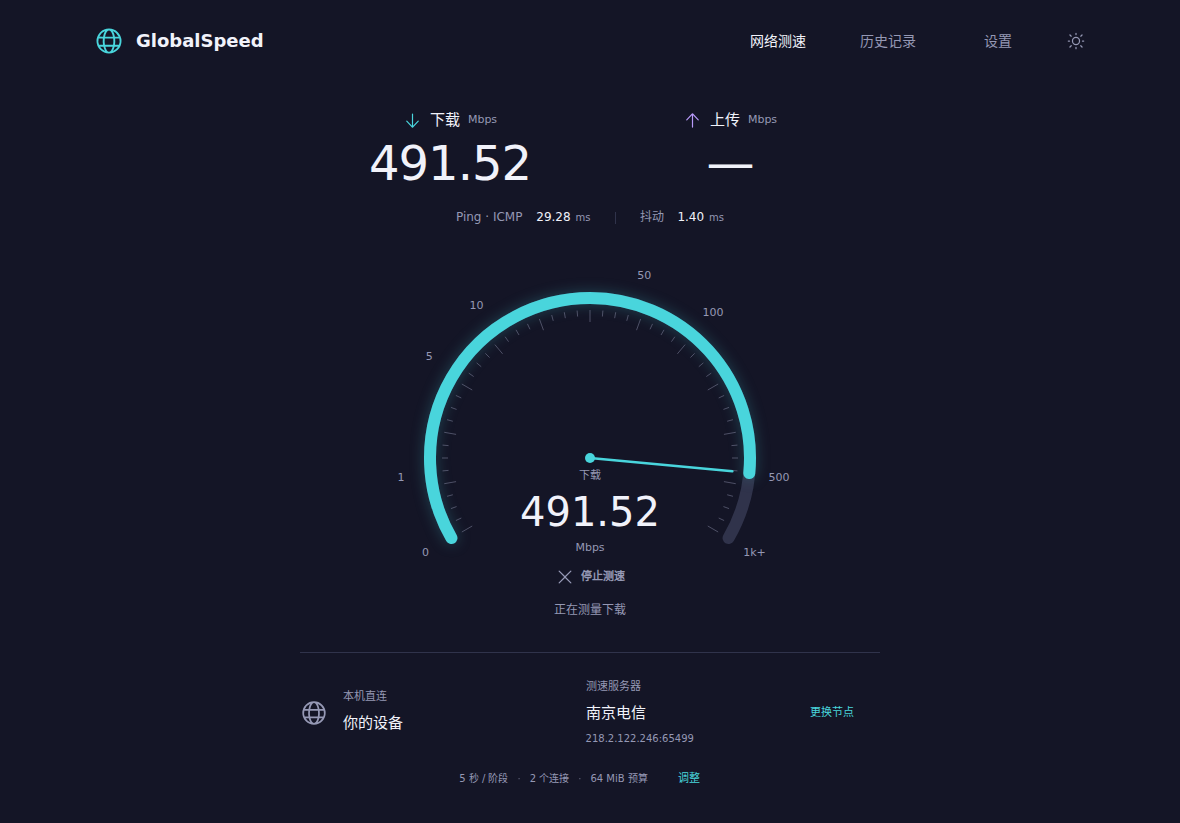
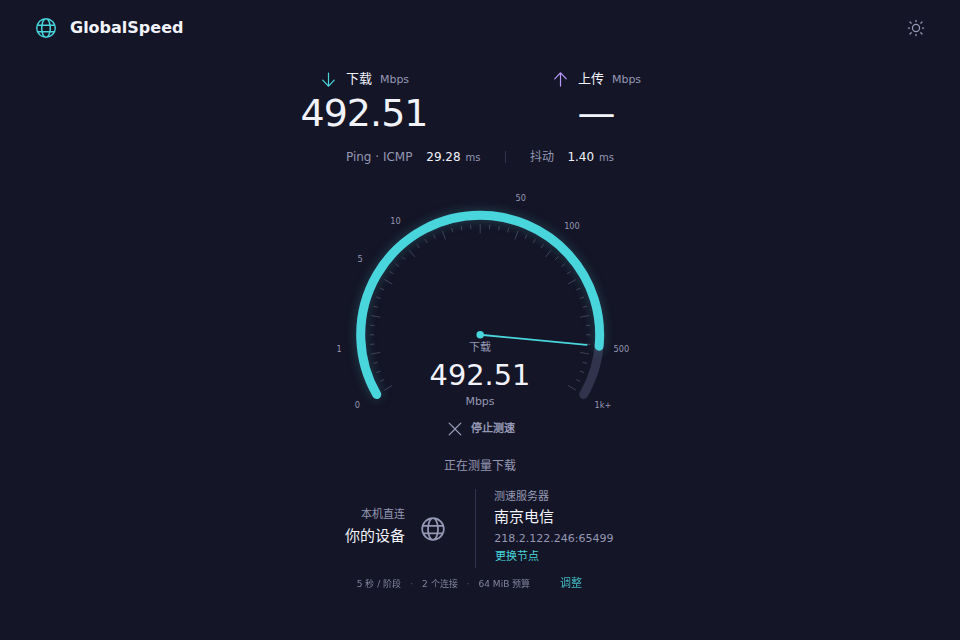
Compact desktop layout and refine Speedtest-style idle screen

diff --git a/frontend/src/style.css b/frontend/src/style.css
@@ -1,5 +1,52 @@
-*{box-sizing:border-box}body{margin:0;font-family:"Segoe UI Variable","Segoe UI",system-ui,"PingFang SC",sans-serif}button,input,select{font:inherit}.app{--gs-bg:#f8f9fc;--gs-fg:#17213d;--gs-muted:#68738c;--gs-line:#dce2ed;--gs-accent:#007d95;--gs-upload:#875bc9;min-height:100vh;background:var(--gs-bg);color:var(--gs-fg)}[data-theme=dark] .app{--gs-bg:#141526;--gs-fg:#f1f2fa;--gs-muted:#9598b4;--gs-line:#30334b;--gs-accent:#49d5dc;--gs-upload:#b89afa}main{width:100%;min-height:100vh}header{height:82px;max-width:1080px;margin:auto;display:flex;align-items:center;justify-content:space-between;padding:0 38px}header nav{display:flex;gap:14px;align-items:center}header nav button{color:var(--gs-muted)!important;font-weight:400!important}header nav .nav-selected{color:var(--gs-fg)!important}.brand{background:none;border:0;color:var(--gs-fg);display:flex;align-items:center;gap:12px;text-align:left;cursor:pointer;font-size:18px;font-weight:650}.brand>svg{width:30px;height:30px;color:var(--gs-accent)}.brand small{display:block;font-size:8px;letter-spacing:2.4px;color:var(--gs-muted);margin-top:2px}.content{max-width:1000px;padding:24px 38px 32px;margin:auto}.speed-content{max-width:800px;padding-top:28px}.headline-metrics{display:flex;justify-content:center;gap:100px;text-align:center}.headline-metric{min-width:180px}.headline-metric>span{display:flex;align-items:center;justify-content:center;gap:8px;font-size:15px}.headline-metric svg{width:19px;height:19px;color:var(--gs-accent)}.headline-metric.upload svg{color:var(--gs-upload)}.headline-metric small{font-size:11px;color:var(--gs-muted)}.headline-metric strong{display:block;font-size:48px;line-height:1.4;font-weight:400;font-variant-numeric:tabular-nums;letter-spacing:-1px}.latency-row{display:flex;justify-content:center;align-items:center;gap:24px;color:var(--gs-muted);font-size:12px;margin-top:10px}.latency-row b{color:var(--gs-fg);font-weight:500;margin-left:10px}.latency-row small{margin-left:5px;font-size:10px}.latency-row i{height:12px;width:1px;background:var(--gs-line)}.test-stage{width:480px;max-width:100%;height:340px;position:relative;margin:20px auto 2px;display:grid;place-items:center}.speedometer{width:100%;height:auto;position:absolute;inset:0;pointer-events:none;--gs-dial-color:var(--gs-accent)}.upload-dial{--gs-dial-color:var(--gs-upload)}.gauge-track{fill:none;stroke:var(--gs-line);stroke-width:12;stroke-linecap:round}.gauge-fill{fill:none;stroke:var(--gs-dial-color);stroke-width:12;stroke-linecap:round;filter:drop-shadow(0 0 7px color-mix(in srgb,var(--gs-dial-color) 25%,transparent));transition:stroke .25s}.gauge-tick{stroke:var(--gs-muted);stroke-width:1;opacity:.45}.gauge-label{fill:var(--gs-muted);font-size:11px;text-anchor:middle;dominant-baseline:middle}.gauge-needle line{stroke:var(--gs-dial-color);stroke-width:2.5;stroke-linecap:round}.gauge-needle circle{fill:var(--gs-dial-color)}.go-button{position:relative;width:150px;height:150px;margin-top:30px;border:1px solid var(--gs-line);border-radius:50%;background:var(--gs-bg);color:var(--gs-fg);display:flex;flex-direction:column;align-items:center;justify-content:center;cursor:pointer;transition:background .2s,border-color .2s}.go-button:hover{background:color-mix(in srgb,var(--gs-accent) 6%,var(--gs-bg));border-color:var(--gs-accent)}.go-button:focus-visible{outline:2px solid var(--gs-accent);outline-offset:5px}.go-button:disabled{cursor:default;opacity:.4}.go-button span{font-size:28px;font-weight:400;letter-spacing:3px}.go-button small{font-size:10px;letter-spacing:3px;color:var(--gs-muted);margin-top:10px}.dial-reading{position:absolute;top:218px;left:50%;transform:translateX(-50%);min-width:200px;display:flex;align-items:center;flex-direction:column;gap:2px}.dial-reading>span{font-size:11px;color:var(--gs-muted)}.dial-reading strong{font-size:40px;line-height:1.2;font-weight:400;font-variant-numeric:tabular-nums}.dial-reading>small{font-size:11px;color:var(--gs-muted)}.dial-reading button{color:var(--gs-muted)!important;font-size:11px;margin-top:4px;min-height:24px!important;padding:2px 8px!important}.status{margin-top:12px;text-align:center;min-height:22px;font-size:12px;color:var(--gs-muted)}.connection-info{display:grid;grid-template-columns:1fr 1.25fr;gap:50px;max-width:580px;margin:30px auto 0;padding-top:24px;border-top:1px solid var(--gs-line)}.device-info{display:flex;align-items:center;gap:15px}.device-info>svg{color:var(--gs-muted);width:28px;height:28px}.connection-info span,.connection-info small{display:block;font-size:11px;color:var(--gs-muted)}.connection-info strong{display:block;font-size:15px;font-weight:500;margin:6px 0}.connection-info small{font-size:10px}.server-info{display:flex;align-items:center;justify-content:space-between;gap:8px}.server-info button,.test-caption button{color:var(--gs-accent)!important;font-size:11px!important;font-weight:400!important}.test-caption{display:flex;align-items:center;justify-content:center;gap:9px;color:var(--gs-muted);font-size:10px;margin-top:18px}.test-caption span{opacity:.6}.secondary-content{padding-top:35px}.page-heading{margin-bottom:28px}h1{font-size:25px;font-weight:500;margin:0 0 10px}.page-heading p{font-size:12px;color:var(--gs-muted);margin:0}h2{font-size:15px;font-weight:500;margin:0}.filters{display:flex;gap:16px;margin-bottom:10px}.filters>*{flex:1}.secondary-content>div[class*="fui-Card"]{padding:24px;background:transparent;border:1px solid var(--gs-line);box-shadow:none}.settings-card{max-width:600px;margin:auto;gap:22px!important}.muted{font-size:12px;line-height:1.8;color:var(--gs-muted)}.pagination{display:flex;align-items:center;gap:8px;margin-top:14px;font-size:12px}.pagination span{margin-right:auto;color:var(--gs-muted)}.mono{font-family:ui-monospace,monospace;font-size:12px}.empty{text-align:center;padding:65px 20px;color:var(--gs-muted)}.empty svg{width:36px;height:36px;margin-bottom:20px}.empty p{font-size:12px}.error{border:1px solid #a85065;background:color-mix(in srgb,#a85065 10%,var(--gs-bg));border-radius:8px;padding:12px 16px;color:var(--gs-fg);font-size:12px;overflow-wrap:anywhere;margin-bottom:20px}@media(max-width:700px){header{padding:0 20px}header nav{gap:0}.brand small{display:none}.content{padding-left:20px;padding-right:20px}.headline-metrics{gap:30px}.headline-metric{min-width:130px}.connection-info{gap:20px}.headline-metric strong{font-size:40px}}
+*{box-sizing:border-box}body{margin:0;font-family:"Segoe UI Variable","Segoe UI",system-ui,"PingFang SC",sans-serif}button,input,select{font:inherit}.app{--gs-bg:#f2f2f2;--gs-fg:#16171a;--gs-muted:#68738c;--gs-line:#dce2ed;--gs-accent:#007d95;--gs-upload:#875bc9;min-height:100vh;background:var(--gs-bg);color:var(--gs-fg)}[data-theme=dark] .app{--gs-bg:#141526;--gs-fg:#f1f2fa;--gs-muted:#9598b4;--gs-line:#30334b;--gs-accent:#49d5dc;--gs-upload:#b89afa}main{width:100%;min-height:100vh}header{height:56px;max-width:1080px;margin:auto;display:flex;align-items:center;justify-content:space-between;padding:0 28px}header nav{display:flex;gap:14px;align-items:center}header nav button{color:var(--gs-muted)!important;font-weight:400!important}header nav .nav-selected{color:var(--gs-fg)!important}.brand{background:none;border:0;color:var(--gs-fg);display:flex;align-items:center;gap:12px;text-align:left;cursor:pointer;font-size:16px;font-weight:650}.brand>svg{width:24px;height:24px;color:var(--gs-accent)}.brand small{display:block;font-size:8px;letter-spacing:2.4px;color:var(--gs-muted);margin-top:2px}.content{max-width:1000px;padding:24px 38px 32px;margin:auto}.speed-content{max-width:740px;padding:14px 28px 12px}.headline-metrics{display:flex;justify-content:center;gap:72px;text-align:center}.headline-metric{min-width:160px}.headline-metric>span{display:flex;align-items:center;justify-content:center;gap:8px;font-size:13px}.headline-metric svg{width:19px;height:19px;color:var(--gs-accent)}.headline-metric.upload svg{color:var(--gs-upload)}.headline-metric small{font-size:11px;color:var(--gs-muted)}.headline-metric strong{display:block;font-size:38px;line-height:1.3;font-weight:400;font-variant-numeric:tabular-nums;letter-spacing:-1px}.latency-row{display:flex;justify-content:center;align-items:center;gap:24px;color:var(--gs-muted);font-size:12px;margin-top:10px}.latency-row b{color:var(--gs-fg);font-weight:500;margin-left:10px}.latency-row small{margin-left:5px;font-size:10px}.latency-row i{height:12px;width:1px;background:var(--gs-line)}.test-stage{--gauge-width:clamp(270px,calc((100dvh - 320px)*1.12),400px);width:var(--gauge-width);max-width:100%;height:auto;aspect-ratio:480/370;position:relative;margin:12px auto 0;display:grid;place-items:center}.speedometer{width:100%;height:auto;position:absolute;inset:0;pointer-events:none;--gs-dial-color:var(--gs-accent)}.upload-dial{--gs-dial-color:var(--gs-upload)}.gauge-track{fill:none;stroke:var(--gs-line);stroke-width:12;stroke-linecap:round}.gauge-fill{fill:none;stroke:var(--gs-dial-color);stroke-width:12;stroke-linecap:round;filter:drop-shadow(0 0 7px color-mix(in srgb,var(--gs-dial-color) 25%,transparent));transition:stroke .25s}.gauge-tick{stroke:var(--gs-muted);stroke-width:1;opacity:.45}.gauge-label{fill:var(--gs-muted);font-size:11px;text-anchor:middle;dominant-baseline:middle}.gauge-needle line{stroke:var(--gs-dial-color);stroke-width:2.5;stroke-linecap:round}.gauge-needle circle{fill:var(--gs-dial-color)}.go-button{position:relative;width:32%;height:auto;aspect-ratio:1;margin-top:2%;border:1px solid var(--gs-line);border-radius:50%;background:var(--gs-bg);color:var(--gs-fg);display:flex;flex-direction:column;align-items:center;justify-content:center;cursor:pointer;transition:background .2s,border-color .2s}.go-button:hover{background:color-mix(in srgb,var(--gs-accent) 6%,var(--gs-bg));border-color:var(--gs-accent)}.go-button:focus-visible{outline:2px solid var(--gs-accent);outline-offset:5px}.go-button:disabled{cursor:default;opacity:.4}.go-button span{font-size:clamp(20px,3.2vh,26px);font-weight:400;letter-spacing:2px}.go-button small{font-size:10px;letter-spacing:3px;color:var(--gs-muted);margin-top:10px}.dial-reading{position:absolute;top:59%;left:50%;transform:translateX(-50%);min-width:160px;display:flex;align-items:center;flex-direction:column;gap:2px}.dial-reading>span{font-size:11px;color:var(--gs-muted)}.dial-reading strong{font-size:clamp(26px,4.5vh,36px);line-height:1.2;font-weight:400;font-variant-numeric:tabular-nums}.dial-reading>small{font-size:11px;color:var(--gs-muted)}.dial-reading button{color:var(--gs-muted)!important;font-size:11px;margin-top:4px;min-height:24px!important;padding:2px 8px!important}.status{margin-top:2px;text-align:center;min-height:22px;font-size:12px;color:var(--gs-muted)}.connection-info{display:grid;grid-template-columns:1fr 1.25fr;gap:50px;max-width:580px;margin:16px auto 0;padding-top:14px;border-top:1px solid var(--gs-line)}.device-info{display:flex;align-items:center;gap:15px}.device-info>svg{color:var(--gs-muted);width:28px;height:28px}.connection-info span,.connection-info small{display:block;font-size:11px;color:var(--gs-muted)}.connection-info strong{display:block;font-size:15px;font-weight:500;margin:6px 0}.connection-info small{font-size:10px}.server-info{display:flex;align-items:center;justify-content:space-between;gap:8px}.server-info button,.test-caption button{color:var(--gs-accent)!important;font-size:11px!important;font-weight:400!important}.test-caption{display:flex;align-items:center;justify-content:center;gap:9px;color:var(--gs-muted);font-size:10px;margin-top:10px}.test-caption span{opacity:.6}.secondary-content{padding-top:35px}.page-heading{margin-bottom:28px}h1{font-size:25px;font-weight:500;margin:0 0 10px}.page-heading p{font-size:12px;color:var(--gs-muted);margin:0}h2{font-size:15px;font-weight:500;margin:0}.filters{display:flex;gap:16px;margin-bottom:10px}.filters>*{flex:1}.secondary-content>div[class*="fui-Card"]{padding:24px;background:transparent;border:1px solid var(--gs-line);box-shadow:none}.settings-card{max-width:600px;margin:auto;gap:22px!important}.muted{font-size:12px;line-height:1.8;color:var(--gs-muted)}.pagination{display:flex;align-items:center;gap:8px;margin-top:14px;font-size:12px}.pagination span{margin-right:auto;color:var(--gs-muted)}.mono{font-family:ui-monospace,monospace;font-size:12px}.empty{text-align:center;padding:65px 20px;color:var(--gs-muted)}.empty svg{width:36px;height:36px;margin-bottom:20px}.empty p{font-size:12px}.error{border:1px solid #a85065;background:color-mix(in srgb,#a85065 10%,var(--gs-bg));border-radius:8px;padding:12px 16px;color:var(--gs-fg);font-size:12px;overflow-wrap:anywhere;margin-bottom:20px}@media(max-width:700px){header{padding:0 20px}header nav{gap:0}.brand small{display:none}.content{padding-left:20px;padding-right:20px}.headline-metrics{gap:30px}.headline-metric{min-width:130px}.connection-info{gap:20px}.headline-metric strong{font-size:40px}}
 
-@media(max-width:540px){.test-stage{height:300px}.dial-reading{top:200px}.dial-reading strong{font-size:34px}}
+
 
 .go-button{background-color:var(--gs-bg)!important}.go-button:hover{background-color:color-mix(in srgb,var(--gs-accent) 6%,var(--gs-bg))!important}
+
+/* Keep the desktop shell in the client area, including Windows DPI scaling. */
+html,body,#root{height:100%;overflow:hidden}
+.app,main{height:100dvh;min-height:0;overflow:hidden}
+.secondary-content{height:calc(100dvh - 56px);overflow-y:auto;overscroll-behavior:contain}
+.speed-content{position:relative}
+.speed-content .error{position:absolute;top:8px;left:28px;right:28px;z-index:3;max-height:90px;overflow-y:auto;background:var(--gs-bg);box-shadow:0 6px 24px #0003}
+@media(max-height:620px){.speed-content{padding-top:8px}.headline-metric strong{font-size:32px}.headline-metric>span{font-size:12px}.latency-row{margin-top:5px}.connection-info{margin-top:10px;padding-top:10px}.connection-info strong{font-size:13px;margin:4px 0}.test-caption{margin-top:5px}.dial-reading{gap:0}.dial-reading>span{font-size:10px}.dial-reading strong{font-size:26px}.dial-reading>small{font-size:10px}.dial-reading button{font-size:10px!important;margin-top:0;min-height:20px!important;padding:0 6px!important}.status{font-size:11px;min-height:18px}}
+
+.speed-content{line-height:1.35}.headline-metric>span{line-height:1.4}.latency-row{line-height:1.5}.connection-info{line-height:1.4}.test-caption{line-height:1.4}.status{line-height:1.5}
+
+/* Speedtest-style hierarchy: GO first, measurements only during/after a run. */
+.page-speed header nav>button:not(:last-child){display:none}
+.speed-utilities{display:flex;justify-content:center;gap:14px;margin:8px 0 0}
+.speed-utilities button{font-size:11px!important;font-weight:400!important;color:var(--gs-muted)!important;padding:4px 6px!important}
+.speed-utilities svg{width:16px;height:16px}
+.ready-state{padding-top:32px}
+.ready-state .headline-metrics,.ready-state .latency-row{display:none}
+.ready-state .test-stage{width:180px;height:180px;aspect-ratio:1;margin:38px auto 32px}
+.ready-state .speedometer,.result-state .speedometer{display:none}
+.ready-state .go-button,.result-state .go-button{width:100%;height:100%;margin:0;border:2px solid transparent;background:linear-gradient(var(--gs-bg),var(--gs-bg)) padding-box,linear-gradient(145deg,#00dfc4,#009fff) border-box!important}
+.ready-state .go-button span{font-size:38px;letter-spacing:0;font-weight:400}
+.ready-state .go-button small{font-size:10px;letter-spacing:1px;margin-top:8px}
+.ready-state .status{margin-top:0;color:var(--gs-muted);font-size:10px}
+.connection-info{max-width:440px;border-top:0;grid-template-columns:1fr 1.2fr;gap:28px;padding-top:0;margin-top:22px}
+.device-info{flex-direction:row-reverse;text-align:right;gap:14px}
+.server-info{align-items:flex-start;flex-direction:column;gap:0;padding-left:18px;border-left:1px solid var(--gs-line)}
+.server-info button{padding:0!important;justify-content:flex-start!important;min-height:22px!important}
+.connection-info strong{font-weight:400;font-size:15px;margin:3px 0}
+.connection-info small{font-size:11px}
+.connection-mode{margin-top:20px;text-align:center;font-size:10px;color:var(--gs-muted)}
+.connection-mode>div{display:flex;align-items:center;justify-content:center;gap:6px;margin-top:2px}
+.connection-mode button{color:var(--gs-muted)!important;font-size:12px!important;font-weight:400!important;min-width:70px;min-height:28px!important}
+.connection-mode button.mode-active{color:var(--gs-accent)!important}
+.connection-divider{display:grid;place-items:center;width:28px;height:28px;border:1px solid var(--gs-line);border-radius:50%;font-size:16px}
+.test-caption{margin-top:4px;font-size:9px;opacity:.85}
+.running-state .speed-utilities{display:none}
+.running-state .connection-info{margin-top:10px}
+.running-state .connection-mode{display:none}
+.result-state .test-stage{width:112px;height:112px;aspect-ratio:1;margin:12px auto 8px}
+.result-state .go-button span{font-size:26px;letter-spacing:0}
+.result-state .go-button small{font-size:9px;letter-spacing:0;margin-top:4px}
+.result-state .speed-utilities{margin:0 0 12px}
+@media(max-height:620px){.ready-state{padding-top:12px}.ready-state .test-stage{width:160px;height:160px;margin:22px auto 18px}.connection-info{margin-top:16px}.connection-info strong{font-size:13px}.connection-info small{font-size:10px}.connection-mode{margin-top:12px}.result-state .speed-utilities{margin-bottom:4px}.result-state .test-stage{width:96px;height:96px;margin:8px auto 4px}.result-state .connection-mode{margin-top:8px}}
+
+.result-state .connection-mode{display:none}
+@media(max-height:620px){.result-state .test-stage{width:84px;height:84px}.result-state .connection-info{margin-top:10px}.result-state .connection-info span{display:none}.result-state .go-button span{font-size:23px}}

diff --git a/frontend/src/main.tsx b/frontend/src/main.tsx
@@ -1,7 +1,7 @@
 import React, {useEffect, useMemo, useState} from 'react';
 import {createRoot} from 'react-dom/client';
 import {FluentProvider,webLightTheme,webDarkTheme,Button,Card,Select,Input,Field,Table,TableHeader,TableRow,TableHeaderCell,TableBody,TableCell,Switch} from '@fluentui/react-components';
-import {ArrowDown24Regular,ArrowUp24Regular,Dismiss24Regular,Globe24Regular,History24Regular,Search24Regular,WeatherMoon24Regular,WeatherSunny24Regular} from '@fluentui/react-icons';
+import {ArrowDown24Regular,ArrowUp24Regular,Dismiss24Regular,Globe24Regular,History24Regular,Settings24Regular,Search24Regular,WeatherMoon24Regular,WeatherSunny24Regular} from '@fluentui/react-icons';
 import './style.css';
 import {Speedometer} from './Speedometer';
 import {useAnimatedSpeed} from './useAnimatedSpeed';
@@ -53,19 +53,21 @@ function App(){
  const upSpeed=result?.upload.mbps??(running?(progress?.phase==='upload'?liveSpeed:rates.upload):undefined);
  const nodeFilters=<div className="filters"><Field label="省份"><Select value={province} disabled={running} onChange={(_,d)=>{setProvince(d.value);setOperator('')}}><option value="">全部省份</option>{provinces.map(p=><option key={p}>{p}</option>)}</Select></Field><Field label="运营商"><Select value={operator} disabled={running} onChange={(_,d)=>setOperator(d.value)}><option value="">全部运营商</option>{['电信','联通','移动','教育网','广电网'].map(o=><option key={o}>{o}</option>)}</Select></Field></div>;
  return <FluentProvider theme={dark?webDarkTheme:webLightTheme} className="app" style={{backgroundColor:'var(--gs-bg)',color:'var(--gs-fg)'}}>
-  <main><header><button className="brand" onClick={()=>setPage('speed')}><Globe24Regular/><span>GlobalSpeed</span></button><nav>{[{id:'speed',name:'网络测速'},{id:'history',name:'历史记录'},{id:'settings',name:'设置'}].map(item=><Button key={item.id} appearance="transparent" className={page===item.id?'nav-selected':''} onClick={()=>setPage(item.id)}>{item.name}</Button>)}<Button appearance="transparent" icon={dark?<WeatherSunny24Regular/>:<WeatherMoon24Regular/>} aria-label="切换主题" onClick={()=>setDark(!dark)}/></nav></header>
-  <div className={page==='speed'?'content speed-content':'content secondary-content'}>
+  <main className={`page-${page}`}><header><button className="brand" onClick={()=>setPage('speed')}><Globe24Regular/><span>GlobalSpeed</span></button><nav>{[{id:'speed',name:'网络测速'},{id:'history',name:'历史记录'},{id:'settings',name:'设置'}].map(item=><Button key={item.id} appearance="transparent" className={page===item.id?'nav-selected':''} onClick={()=>setPage(item.id)}>{item.name}</Button>)}<Button appearance="transparent" icon={dark?<WeatherSunny24Regular/>:<WeatherMoon24Regular/>} aria-label="切换主题" onClick={()=>setDark(!dark)}/></nav></header>
+  <div className={page==='speed'?`content speed-content ${running?'running-state':result?'result-state':'ready-state'}`:'content secondary-content'}>
   {page!=='speed'&&<div className="page-heading"><h1>{({nodes:'选择测速节点',history:'测速历史',settings:'设置'} as Record<string,string>)[page]}</h1><p>{page==='nodes'?'按地区与运营商筛选节点':page==='history'?'最近 100 次成功测量':'采样参数与界面外观'}</p></div>}
   {error&&<div className="error" role="alert">{error}</div>}
   {page==='speed'&&<>
+   <div className="speed-utilities"><Button appearance="transparent" icon={<History24Regular/>} onClick={()=>setPage('history')}>历史记录</Button><Button appearance="transparent" icon={<Settings24Regular/>} onClick={()=>setPage('settings')}>设置</Button></div>
    <div className="headline-metrics"><div className="headline-metric download"><span><ArrowDown24Regular/>下载 <small>Mbps</small></span><strong>{number(downSpeed)}</strong></div><div className="headline-metric upload"><span><ArrowUp24Regular/>上传 <small>Mbps</small></span><strong>{number(upSpeed)}</strong></div></div>
    <div className="latency-row"><span title="优先 ICMP；不可用时按原版回退到 TCP，显示均值">Ping{shownPing?` · ${shownPing.method.toUpperCase()}`:''} <b>{number(shownPing?.status===0?shownPing.averageMs:undefined)}</b><small>ms</small></span><i/><span title="按原版算法统计相邻成功样本差值">抖动 <b>{number(shownPing?.status===0?shownPing.jitterMs:undefined)}</b><small>ms</small></span></div>
    <div className={'test-stage '+(running?'is-running':'')}>
     <Speedometer value={liveSpeed} active={measuring} upload={progress?.phase==='upload'}/>
-    {running?<div className="dial-reading"><span>{progress?.phase==='upload'?'上传':progress?.phase==='download'?'下载':'连接中'}</span><strong>{progress?.phase==='download'||progress?.phase==='upload'?number(liveSpeed):'—'}</strong><small>Mbps</small><Button appearance="transparent" icon={<Dismiss24Regular/>} onClick={stop}>停止测速</Button></div>:<button className="go-button" aria-label="开始测速" disabled={(!auto&&!selected)||!bridge()} onClick={start}><span>{result?'再测一次':'开始'}</span><small>{result?'TEST AGAIN':'GO'}</small></button>}
+    {running?<div className="dial-reading"><span>{progress?.phase==='upload'?'上传':progress?.phase==='download'?'下载':'连接中'}</span><strong>{progress?.phase==='download'||progress?.phase==='upload'?number(liveSpeed):'—'}</strong><small>Mbps</small><Button appearance="transparent" icon={<Dismiss24Regular/>} onClick={stop}>停止测速</Button></div>:<button className="go-button" aria-label="开始测速" disabled={(!auto&&!selected)||!bridge()} onClick={start}><span>GO</span><small>{result?'再测一次':'开始测速'}</small></button>}
    </div>
    <div className="status" role="status">{status}</div>
    <div className="connection-info"><div className="device-info"><Globe24Regular/><div><span>本机直连</span><strong>你的设备</strong></div></div><div className="server-info"><div><span>测速服务器</span><strong>{selected?.hostname||(auto?'自动选择':'选择节点')}</strong><small>{selected?`${selected.hostip}:${selected.port}`:(auto?'按地区和网络匹配':'606 个运营商节点')}</small></div><Button appearance="transparent" disabled={running} onClick={()=>setPage('nodes')}>更换节点</Button></div></div>
+   <div className="connection-mode"><span>连接模式</span><div><Button appearance="transparent" disabled={running} className={connections>1?'mode-active':''} onClick={()=>setConnections(2)}>多连接</Button><span className="connection-divider">↔</span><Button appearance="transparent" disabled={running} className={connections===1?'mode-active':''} onClick={()=>setConnections(1)}>单连接</Button></div></div>
    <div className="test-caption">{duration} 秒 / 阶段 <span>·</span> {connections} 个连接 <span>·</span> {budget} MiB 预算<Button appearance="transparent" size="small" disabled={running} onClick={()=>setPage('settings')}>调整</Button></div>
   </>}
   {page==='nodes'&&<Card><Button appearance="primary" disabled={running} onClick={()=>{setAuto(true);setAutoNode(null);setLatency(null);setResult(null);setRates({});setError('');setStatus('准备就绪');setPage('speed')}}>自动选择节点</Button>{nodeFilters}<Input contentBefore={<Search24Regular/>} placeholder="搜索名称、地址或城市" value={search} onChange={(_,d)=>setSearch(d.value)}/><Table><TableHeader><TableRow>{['节点','地区','运营商','地址',''].map(x=><TableHeaderCell key={x}>{x}</TableHeaderCell>)}</TableRow></TableHeader><TableBody>{filtered.slice(tablePage*30,(tablePage+1)*30).map(s=><TableRow key={s.hostid}><TableCell>{s.hostname}</TableCell><TableCell>{s.pname} · {s.location}</TableCell><TableCell>{s.oper||'其他'}</TableCell><TableCell className="mono">{s.hostip}:{s.port}</TableCell><TableCell><Button size="small" disabled={running} onClick={()=>{setAuto(false);setAutoNode(null);setLatency(null);setResult(null);setRates({});setError('');setStatus('准备就绪');setServerId(s.hostid);setPage('speed')}}>选择</Button></TableCell></TableRow>)}</TableBody></Table><div className="pagination"><span>{filtered.length} 个节点 · 第 {tablePage+1} 页</span><Button disabled={tablePage===0} onClick={()=>setTablePage(tablePage-1)}>上一页</Button><Button disabled={(tablePage+1)*30>=filtered.length} onClick={()=>setTablePage(tablePage+1)}>下一页</Button></div></Card>}

diff --git a/main_desktop.go b/main_desktop.go
@@ -87,7 +87,7 @@ func (a *App) shutdown(context.Context) {
 }
 func main() {
 	app := &App{}
-	err := wails.Run(&options.App{Title: "GlobalSpeed", Width: 1180, Height: 800, MinWidth: 900, MinHeight: 640,
+	err := wails.Run(&options.App{Title: "GlobalSpeed", Width: 960, Height: 680, MinWidth: 800, MinHeight: 560,
 		AssetServer: &assetserver.Options{Assets: frontend.Assets}, OnStartup: app.startup, OnShutdown: app.shutdown, Bind: []interface{}{app},
 		Windows: &windows.Options{BackdropType: windows.Mica, WebviewIsTransparent: true, WindowIsTranslucent: true},
 	})

diff --git a/README.md b/README.md
@@ -2,7 +2,9 @@
 
 跨平台网络测速工具，提供 Windows、Linux、macOS 桌面端和 CLI。使用本机 Go 核心直接连接测速节点，支持下载、上传、Ping 和本地历史记录。
 
-桌面使用 Wails v2、React 和 Fluent UI，采用弧形刻度与指针速度表布局，支持深浅主题。
+桌面使用 Wails v2、React 和 Fluent UI，采用中央 GO 按钮、紧凑的服务器信息和单/多连接切换；测速时显示弧形刻度与指针速度表，支持深浅主题。
+
+桌面默认窗口为 960×680，最小为 800×560。测速主页面随客户区高度调整尺寸；节点目录与历史页保留独立滚动。
 
 ![GlobalSpeed desktop](docs/desktop-preview.png)
 
